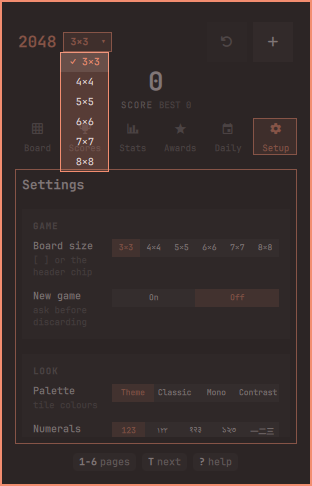
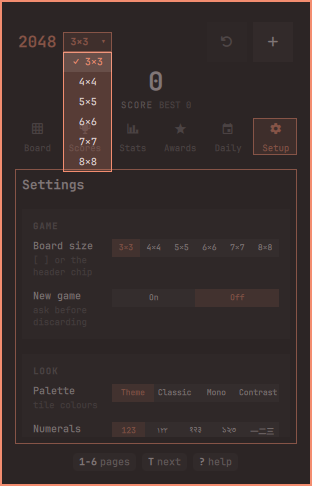
fix: align the size dropdown exactly to the chip rectangle

Changed region(s): [[0.1731, 0.0926, 0.375, 0.3704]]

diff --git a/Panel.qml b/Panel.qml
@@ -120,6 +120,8 @@ Panel {
   // Inline board-size picker (under the header chip).
   property bool sizePickerOpen: false
   property int sizePickIndex: 0
+  property real sizePickerX: 0
+  property real sizePickerY: 0
   // Motion-gated fade when a tab changes.
   property real pageT: 1
   // True while the score is ahead of (or just beat) the best, for the ▲ mark.
@@ -490,6 +492,12 @@ Panel {
     var index = Game.SUPPORTED_SIZES.indexOf(root.game.size)
     root.sizePickIndex = index === -1 ? 0 : index
     root.sizePickerOpen = true
+    // Anchor to the chip rectangle once layout has settled (a live mapToItem
+    // binding is a one-shot and can be stale by the time the chip is placed).
+    Qt.callLater(function() {
+      root.sizePickerX = sizeChipButton.mapToItem(keyCatcher, 0, 0).x
+      root.sizePickerY = sizeChipButton.mapToItem(keyCatcher, 0, sizeChipButton.height).y
+    })
   }
 
   function closeSizePicker() {
@@ -3220,14 +3228,8 @@ Panel {
         transformOrigin: Item.TopLeft
         width: sizeChipButton.width
         height: sizePickColumn.implicitHeight
-        x: {
-          var p = sizeChipButton.mapToItem(keyCatcher, 0, 0)
-          return Math.max(Style.space(2), Math.min(keyCatcher.width - width - Style.space(2), p.x))
-        }
-        y: {
-          var p = sizeChipButton.mapToItem(keyCatcher, 0, sizeChipButton.height)
-          return Math.max(0, Math.min(keyCatcher.height - height, p.y))
-        }
+        x: root.sizePickerX
+        y: root.sizePickerY
         color: sizeChipButton.color
         radius: sizeChipButton.radius
         border.width: sizeChipButton.border.width
